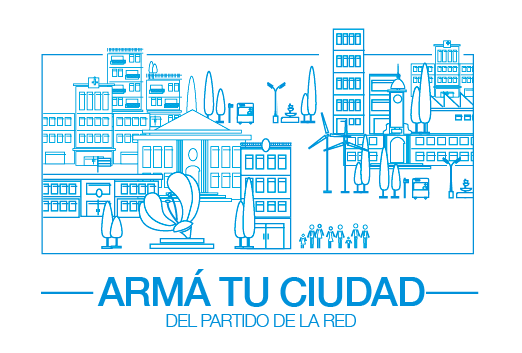
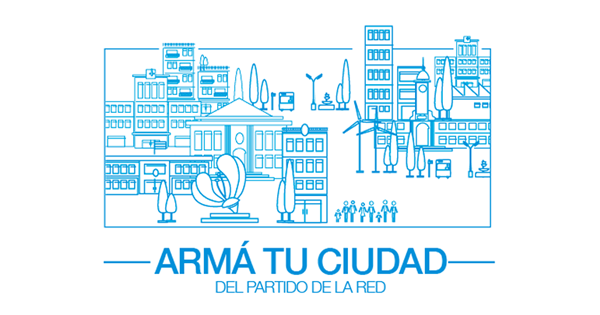
Fix some errors in loading data
- Add logic for update data when edit previous budget or save a new one.
- Sort categories by name.
- Change share image for social networks.

diff --git a/base-version/JS/javascript.js b/base-version/JS/javascript.js
@@ -1,34 +1,50 @@
 window.DEFAULT_COLOR = 'rgba(255,255,255,.0)';
 $(document).ready(function(e) {
-	
+	//Get budget from 2015
 	$.get('/api/budget/2015', function (data2015) {
 		window.categoriasGobierno2015 = ApiToBudget(data2015);
 		window.presupuestoTotal = 0;
-		window.categoriasGobierno2015.forEach(function(cat){window.presupuestoTotal += cat.presupuesto;});
+		window.categoriasGobierno2015.forEach(function(cat){window.presupuestoTotal += parseFloat(cat.presupuesto);});
+
+		//Get categories
 		$.get('/api/categories', function (dataCategories) {
 			CargarDefault(dataCategories, window.presupuestoTotal);
+
+			//Get average budget
 			$.get('/api/mybudget/average', function (data) {
 				window.categoriasAverage = ApiToBudget(data);
+
 				//Decidir que hacer en base al hash de la url y la cookie
 				var hash = document.location.href.split('#')[1];
 				var cookie = getCookie('mybudget');
-				if(hash)
+				if(hash && hash!=='')
+
+					//Get budget from id
 					$.get('/api/mybudget/'+hash, function (dataHash) {
 						var data = ApiToBudget(dataHash);
 						if(cookie)
 							if(hash == cookie)
+							{
+								window.editID = hash;
 								//Cargar el budget del identificador del hash y SI permitir edicición
 								CargaJuego(data, true);
+							}
 							else
 								//Cargar el budget del identificador del hash y NO permitir edicición
 								CargaJuego(data, false);
 						else
 							CargaJuego(data, false);
+					}).fail(function() {
+					    CargarInicio();
 					});
 				else if(cookie)
+
+					//Get budget from id
 					$.get('/api/mybudget/'+cookie, function (dataHash) {
 						var data = ApiToBudget(dataHash);
 						CargaJuego(data, true);
+					}).fail(function() {
+					    CargarInicio();
 					});
 				else
 					CargarInicio();
@@ -64,9 +80,8 @@ function CargaJuego(_data, edicion)
 {
 	var data = $.extend(true, [], _data);
 	CargarData('#juego', data, false);
-
-	var buttonsWrapper = CrearElemento('div', 'buttonsWrapper');
-	$('.header').append(buttonsWrapper);
+	
+	$('.buttonsWrapper-right').html('');
 
 	var reiniciarJuego = CrearElemento('div', 'addButton');
 	$(reiniciarJuego).html('Crear Nuevo');
@@ -75,7 +90,7 @@ function CargaJuego(_data, edicion)
 		CargaJuego(data, true);
 		$(terminarJuego).fadeIn('fast');
 	});
-	$(buttonsWrapper).append(reiniciarJuego);
+	$('.buttonsWrapper-right').append(reiniciarJuego);
 
 	var terminarJuego = CrearElemento('div', 'finishButton');
 	$(terminarJuego).html('Terminar');
@@ -95,7 +110,7 @@ function CargaJuego(_data, edicion)
 			SetURL(texto);
 		});
     });
-	$(buttonsWrapper).append(terminarJuego);
+	$('.buttonsWrapper-right').append(terminarJuego);
 
 	if(edicion)
 	{
@@ -284,8 +299,8 @@ function CargarResultados(data)
 			$(wrapper2).append(botonTitulo2Promedio);
 		
 
-	CargarData(contenedor1.children()[0], data, true);
-	CargarData(contenedor2.children()[0], categoriasGobierno2015, true);
+	CargarData(contenedor1.children()[0], data, true, false);
+	CargarData(contenedor2.children()[0], categoriasGobierno2015, true, false);
 
 	var base = CrearElemento('div', 'items-base');
 	$('#resultados').append(base);
@@ -378,16 +393,16 @@ function CargarData(contenedor, data, porcentaje, conDescripcion)
 	
 	//Calculo de presupuestoTotal en base a la suma de los presupuestos de todas las categoiras
 	window.presupuestoTotal = 0;
-	data.forEach(function(cat){window.presupuestoTotal += cat.presupuesto;});
+	data.forEach(function(cat){window.presupuestoTotal += parseFloat(cat.presupuesto);});
 	
 	window.anchoTotal = $(itemsContainer).outerWidth(true);
 	
 	//Carga de cada categoria en el contenedor con un ancho relativo a su presupuesto
 	var porcentajePromedio = 100 / data.length;
 	var leftAcumulador = 0;
-	data.sort(function(a, b){ return a.codigo - b.codigo }).forEach(function(cat)
+	data.sort(compare).forEach(function(cat)
 	{
-		var anchoCategoria = cat.presupuesto / window.presupuestoTotal * window.anchoTotal;
+		var anchoCategoria = parseFloat(cat.presupuesto) / window.presupuestoTotal * window.anchoTotal;
 
 		var itemCategoria = document.createElement('div');
 		$(itemCategoria).addClass('item-container');
@@ -483,6 +498,14 @@ function CrearElemento(tag, className)
 	return $(presupuestoCategoria);
 }
 
+function compare(a,b) {
+  if (a.nombre < b.nombre)
+    return -1;
+  if (a.nombre > b.nombre)
+    return 1;
+  return 0;
+}
+
 function SetURL(id)
 {
 	var title = 'Armá tu ciudad - ciudad ' + id;
@@ -536,7 +559,7 @@ function ApiToBudget(_data)
 		data = _data;
 	return data.map(function(budget) {
 		return {
-			codigo: budget.category.id,
+			codigo: budget.category._id,
 			nombre: budget.category.name,
 			color: DEFAULT_COLOR,
 			presupuesto: budget.amount,
@@ -548,6 +571,10 @@ function ApiToBudget(_data)
 function BudgetToApi(_data)
 {
 	var data = new Object();
+	if(window.editID)
+		data._id = window.editID;
+	else
+		data._id = '-1';
 	data.rows = [];
 	_data.forEach(function(Item)
 	{

diff --git a/base-version/index.html b/base-version/index.html
@@ -1,4 +1,3 @@
-<!DOCTYPE html PUBLIC "-//W3C//DTD XHTML 1.0 Transitional//EN" "http://www.w3.org/TR/xhtml1/DTD/xhtml1-transitional.dtd">
 <html xmlns="http://www.w3.org/1999/xhtml" xmlns:fb="http://ogp.me/ns/fb#">
 <head>
 <meta http-equiv="Content-Type" content="text/html; charset=utf-8" />
@@ -42,6 +41,8 @@
 <div class="header">
 	<div class="headerName">Armá tu ciudad</div>
     <div class="total-dinero"></div>
+    <div class='buttonsWrapper-left'></div>
+    <div class='buttonsWrapper-right'></div>
 </div>
 
 <div class="container">

diff --git a/base-version/CSS/styles.css b/base-version/CSS/styles.css
@@ -364,7 +364,12 @@ background-color: #eee;
 box-shadow: 0 2px 3px rgba(0,0,0,.2);
 }
 
-.buttonsWrapper {
+.buttonsWrapper-left {
+    position: absolute;
+    left: 0;
+}
+
+.buttonsWrapper-right {
     position: absolute;
     right: 0;
 }
@@ -397,7 +402,7 @@ border-radius: 3px;
   margin: 2.5px;
   height: 45px;
   line-height: 44px;
-  padding: 0 15px 0 50px;
+  padding: 0 15px 0 40px;
   background-color: #169CBF;
   color: #eee;
   font-size: 20px;
